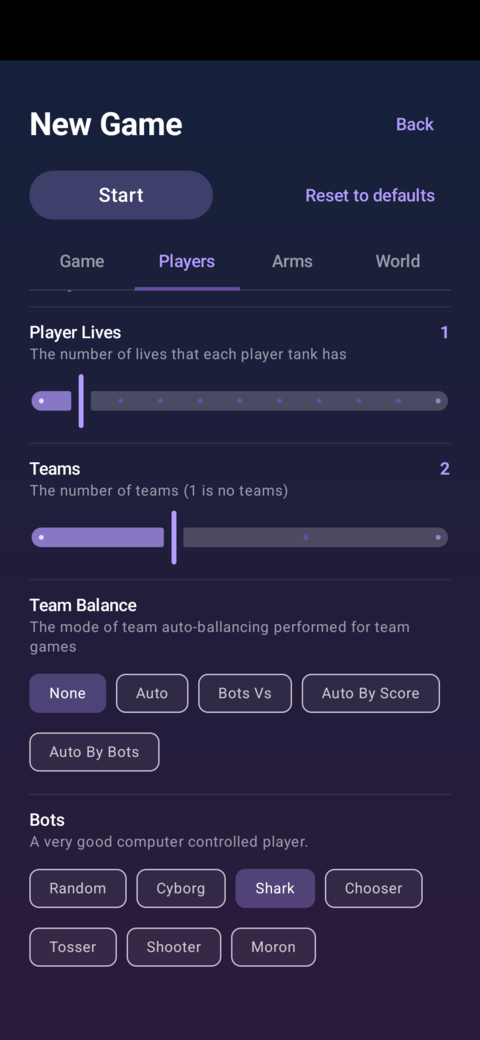
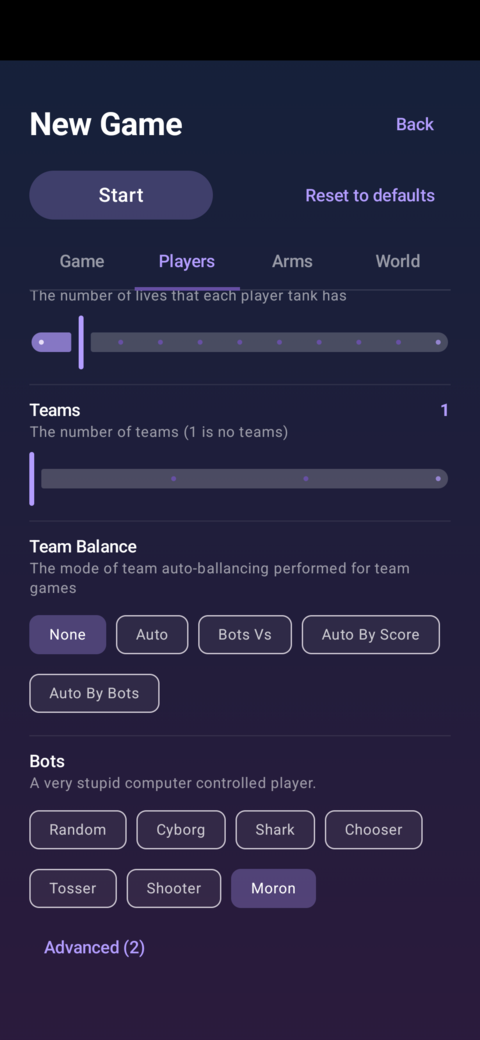
Six new screenshots, taken from the 0.9.2 release build
The old set was from 0.8.0 and showed a HUD that no longer exists - separate
weapon and FIRE buttons, controls at full opacity, an IP address on the status
column of a single-player game. Every one of those is wrong now.

Three of the interface and three of play, all captured from the signed 0.9.2
APK on an API 34 emulator and scaled to the 480x1040 the previous set used.
The gameplay three are consecutive rounds of one Quick Game, each on the
landscape that round generated, chosen for how little they look alike: green
sea cliffs, a dusk coast with ships on a near-black sea, and a volcanic map of
glowing rock under a red sky. They show the 0.9.1 controls - the single wide
bar naming its weapon, both rows at 80% opacity - and, because these are solo
games, no hosting line.

The scores table screenshot goes rather than being retaken: six images is
already a wide strip, and the three landscapes say more about what the port
looks like than a table of numbers does.

Also checked the rest of the README rather than assuming it had kept up. Four
claims verified against the tree and all four still true: twenty-three patches
in patches/scorched3d, minSdk 26 / targetSdk 37 on arm64-v8a and x86_64,
"over 400 checks" (413), and seven camera views (GameRenderer.kt:101-107
lists exactly seven). The one addition is 0.9.2's: a single-player game
announces nothing, which is worth stating where the multiplayer claims are
because the opposite was true a day ago.
[…]

diff --git a/README.md b/README.md
@@ -10,7 +10,9 @@ It is in a playable state now with most of the graphics and gameplay implemented
 
 Cheers, enjoy! roge-rm
 
-<img src="docs/shot-menu.png" alt="The ScorchDroid main menu: the title over Single Player, Multiplayer, Settings and About" width="180" /> <img src="docs/shot-setup.png" alt="The New Game setup screen on its Players tab: Start and Reset to defaults under the header, tabs for Game, Players, Arms and World, sliders for the player count and teams, and a row of chips naming the bots the mod offers with Scorched3D's own description of the one selected" width="180" /> <img src="docs/shot-settings.png" alt="The Settings screen on its Player tab: name, tank model, a grid of tank colours and a grid of avatars, with tabs for Player, Audio, Display and Controls" width="180" /> <img src="docs/shot-gameplay.png" alt="ScorchDroid mid-round: a pine-covered island seen from above and behind the player's tank, the sea beyond the shoreline, with the angle and elevation sliders either side and the weapon and Fire buttons below" width="180" /> <img src="docs/shot-scores.png" alt="The score table for round 1 of 5, turn 1 of 15, listing the player and two bots with their avatars, tank colours, score, kills, wins and money, with the chat history below" width="180" />
+<img src="docs/shot-menu.png" alt="The ScorchDroid main menu: the title over Single Player, Multiplayer, Settings and About" width="180" /> <img src="docs/shot-setup.png" alt="The New Game setup screen on its Players tab: tabs for Game, Players, Arms and World, sliders for teams and team balance, and a row of chips naming the bots the mod offers with Scorched3D's own description of the one selected" width="180" /> <img src="docs/shot-settings.png" alt="The Settings screen on its Player tab: name, tank model, a grid of tank colours and a grid of avatars, with tabs for Player, Audio, Display and Controls" width="180" />
+
+<img src="docs/shot-gameplay-1.png" alt="Mid-round on a green island: the player's tank on a clifftop above a sea inlet with an opponent on the ridge opposite, the elevation and power sliders at either edge, the turn slider below them, and the wide bar naming the loaded weapon" width="180" /> <img src="docs/shot-gameplay-2.png" alt="The same game a round later at dusk: an orange sky over a dark sea dotted with ships, the player's tank on a bare headland below a stand of pines, an opponent along the ridge" width="180" /> <img src="docs/shot-gameplay-3.png" alt="A volcanic landscape: red and yellow glowing rock falling away to surf and a near-black sea under a deep red sky, the player's tank on the slope" width="180" />
 
 ## Features
 
@@ -38,7 +40,9 @@ Cheers, enjoy! roge-rm
 - Multiplayer — host or join over Wi-Fi, a hotspot, Wi-Fi Direct or Bluetooth,
   with automatic game discovery. Wi-Fi Direct needs no router, hotspot or
   internet at all, and Bluetooth needs no Wi-Fi either: two phones side by
-  side can play with every other radio switched off.
+  side can play with every other radio switched off. A single-player game
+  announces nothing: it registers no service and forms no Wi-Fi Direct group,
+  even though the engine still runs a server for it.
 - It can also join a **desktop Scorched3D server** and play alongside PC
   clients — enter the server's address under Join Game. This was never a goal
   and is not something the port does anything to achieve: it compiles
